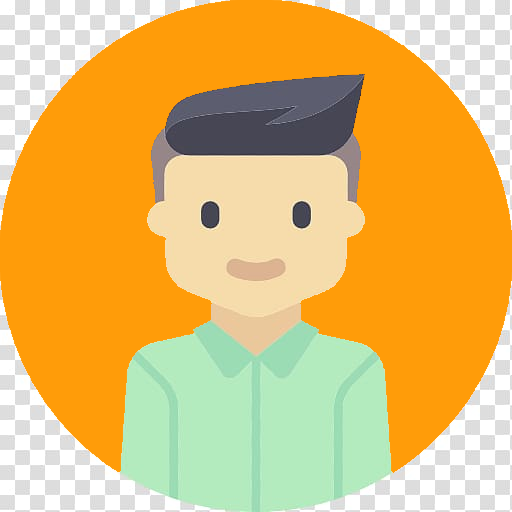
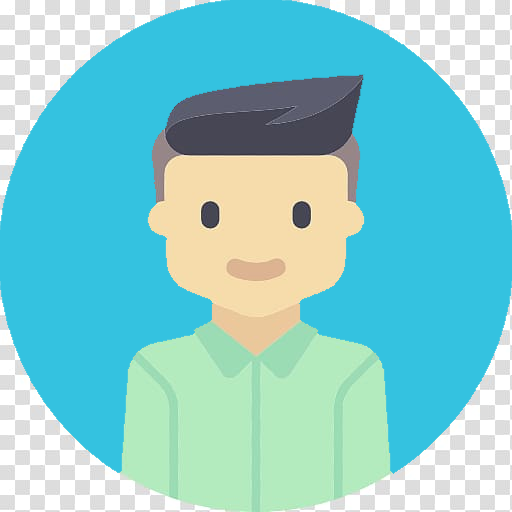
new

diff --git a/App.js b/App.js
@@ -190,24 +190,26 @@ export default function App() {
                 <Text muted style={styles.buttonText}>Qual teste deseja aplicar?</Text>
               </Block>
               <Block flex center>
-                <Button round color="warning" uppercase size="large" onPress={() => test("pfeffer")}>1° PASSO - PFEFFER</Button>
+                <Button round color="#34c2e0" uppercase size="large" onPress={() => test("pfeffer")}>1° PASSO - PFEFFER</Button>
               </Block>
               <Block flex center>
-                <Button round color="warning" uppercase size="large" onPress={() => test("cdr")}>2° PASSO - CDR</Button>
+                <Button round color="#34c2e0" uppercase size="large" onPress={() => test("cdr")}>2° PASSO - CDR</Button>
               </Block>
               <Block flex center>
-                <Button round color="warning" uppercase size="large" onPress={() => test("minimental")}>3° PASSO - MINI MENTAL</Button>
+                <Button round color="#34c2e0" uppercase size="large" onPress={() => test("minimental")}>3° PASSO - MINI MENTAL</Button>
               </Block>
               <Block flex center>
-                <Button round color="warning" uppercase size="large" onPress={() => test("moca")}>3° PASSO - MoCA</Button>
+                <Button round color="#34c2e0" uppercase size="large" onPress={() => test("moca")}>3° PASSO - MoCA</Button>
               </Block>
               <Block flex center>
-                <Button round color="warning" uppercase size="large" onPress={() => test("sintomas")}>COMPLEMENTAR - TESTE DE SINTOMAS</Button>
+                <Button round color="#34c2e0" uppercase size="large" onPress={() => test("sintomas")}>COMPLEMENTAR - TESTE DE SINTOMAS</Button>
               </Block>
             </>}
             {activeTab == "new" && activeTest != "" && <>
               <Block flex center>
-                <Text h4 muted onPress={() => test("")} style={{ backgroundColor: '#e8e8e8', borderRadius: 50, color: '#f5f5f5' }}>&nbsp;&nbsp;X&nbsp;&nbsp;</Text>
+                <TouchableOpacity>
+                  <Text h4 muted onPress={() => test("")} style={{ backgroundColor: '#e8e8e8', borderRadius: 50, color: '#f5f5f5' }}>&nbsp;&nbsp;X&nbsp;&nbsp;</Text>
+                </TouchableOpacity>
               </Block>
             </>}
             {activeTab == "new" && activeTest == "pfeffer" && <>
@@ -407,7 +409,7 @@ export default function App() {
             {activeTab == "new" && activeTest != "" && <>
               <Block row center>
                 <Button round uppercase color="primary" onPress={() => test("")}>SALVAR</Button>
-                <Button round uppercase color="warning" onPress={() => test("")}>FECHAR</Button>
+                <Button round uppercase color="#34c2e0" onPress={() => test("")}>FECHAR</Button>
               </Block>
             </>}
           </>}
@@ -425,9 +427,9 @@ export default function App() {
             </Block>
             <Block flex center>
               <Text h3>Douglas Dotto</Text>
-              <Button round uppercase size="large" icon="contacts" iconFamily="antdesign" color="warning">Meus dados</Button>
-              <Button round uppercase size="large" icon="edit" iconFamily="antdesign" color="warning">Alterar senha</Button>
-              <Button round uppercase size="large" icon="close" iconFamily="antdesign" color="warning">Sair</Button>
+              <Button round uppercase size="large" icon="contacts" iconFamily="antdesign" color="#34c2e0">Meus dados</Button>
+              <Button round uppercase size="large" icon="edit" iconFamily="antdesign" color="#34c2e0">Alterar senha</Button>
+              <Button round uppercase size="large" icon="close" iconFamily="antdesign" color="#34c2e0">Sair</Button>
             </Block>
           </>}
         </ScrollView>
